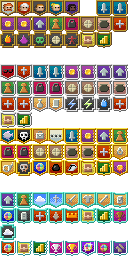
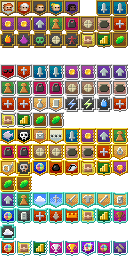
idea by The healing plant: badges themed after planting and activating plants

Changed region(s): [[0.25, 0.4375, 0.5, 0.5], [0.0, 0.6875, 0.25, 0.75], [0.875, 0.125, 1.0, 0.1875]]

diff --git a/core/src/main/java/com/shatteredpixel/shatteredpixeldungeon/Badges.java b/core/src/main/java/com/shatteredpixel/shatteredpixeldungeon/Badges.java
@@ -84,6 +84,7 @@ public class Badges {
 		DEATH_FROM_FALLING          ( 20 ),
 		GAMES_PLAYED_1              ( 21, true ),
 		HIGH_SCORE_1                ( 22 ),
+		PLANTS_ACTIVATED_1          ( 23 ),
 
 		//silver
 		NO_MONSTERS_SLAIN           ( 32 ),
@@ -117,6 +118,8 @@ public class Badges {
 		BOSS_SLAIN_1_ALL_CLASSES    ( 55, true ),
 		GAMES_PLAYED_2              ( 56, true ),
 		HIGH_SCORE_2                ( 57 ),
+		PLANTS_ACTIVATED_2          ( 58 ),
+		PLANTS_ACTIVATED_3          ( 59 ),
 
 		//gold
 		PIRANHAS                    ( 64 ),
@@ -147,6 +150,8 @@ public class Badges {
 		GAMES_PLAYED_3              ( 85, true ),
 		HIGH_SCORE_3                ( 86 ),
 		THREE_SHOPKEEPERS_FLEE      ( 87 ),
+		PLANTS_ACTIVATED_4          ( 88 ),
+		PLANTS_ACTIVATED_5          ( 89 ),
 
 		//platinum
 		ITEM_LEVEL_5                ( 96 ),
@@ -515,6 +520,37 @@ public class Badges {
 			local.add( badge );
 		}
 		
+		displayBadge( badge );
+	}
+
+	public static void validatePlantsActivated() {
+		Badge badge = null;
+
+		if (!local.contains( Badge.PLANTS_ACTIVATED_1 ) && Statistics.plantsActivated >= 10) {
+			badge = Badge.PLANTS_ACTIVATED_1;
+			local.add( badge );
+		}
+		if (!local.contains( Badge.PLANTS_ACTIVATED_2 ) && Statistics.plantsActivated >= 20) {
+			if (badge != null) unlock(badge);
+			badge = Badge.PLANTS_ACTIVATED_2;
+			local.add( badge );
+		}
+		if (!local.contains( Badge.PLANTS_ACTIVATED_3 ) && Statistics.plantsActivated >= 30) {
+			if (badge != null) unlock(badge);
+			badge = Badge.PLANTS_ACTIVATED_3;
+			local.add( badge );
+		}
+		if (!local.contains( Badge.PLANTS_ACTIVATED_4 ) && Statistics.plantsActivated >= 40) {
+			if (badge != null) unlock(badge);
+			badge = Badge.PLANTS_ACTIVATED_4;
+			local.add( badge );
+		}
+		if (!local.contains( Badge.PLANTS_ACTIVATED_5 ) && Statistics.plantsActivated >= 50) {
+			if (badge != null) unlock(badge);
+			badge = Badge.PLANTS_ACTIVATED_5;
+			local.add( badge );
+		}
+
 		displayBadge( badge );
 	}
 	

diff --git a/core/src/main/java/com/shatteredpixel/shatteredpixeldungeon/Statistics.java b/core/src/main/java/com/shatteredpixel/shatteredpixeldungeon/Statistics.java
@@ -37,6 +37,7 @@ public class Statistics {
 	public static int itemsCrafted;
 	public static int piranhasKilled;
 	public static int ankhsUsed;
+	public static int plantsActivated;
 
 	//These are used for score calculation
 	// some are built incrementally, most are assigned when full score is calculated
@@ -81,6 +82,7 @@ public class Statistics {
 		itemsCrafted    = 0;
 		piranhasKilled	= 0;
 		ankhsUsed		= 0;
+		plantsActivated = 0;
 
 		progressScore   = 0;
 		heldItemValue   = 0;
@@ -121,6 +123,7 @@ public class Statistics {
 	private static final String ALCHEMY		= "potionsCooked";
 	private static final String PIRANHAS	= "priranhas";
 	private static final String ANKHS		= "ankhsUsed";
+	private static final String PLANTS		= "plantsActivated";
 
 	private static final String PROG_SCORE	    = "prog_score";
 	private static final String ITEM_VAL	    = "item_val";
@@ -160,6 +163,7 @@ public class Statistics {
 		bundle.put( ALCHEMY,    itemsCrafted );
 		bundle.put( PIRANHAS,	piranhasKilled );
 		bundle.put( ANKHS,		ankhsUsed );
+		bundle.put( PLANTS,		plantsActivated );
 
 		bundle.put( PROG_SCORE,  progressScore );
 		bundle.put( ITEM_VAL,    heldItemValue );
@@ -204,6 +208,7 @@ public class Statistics {
 		itemsCrafted    = bundle.getInt( ALCHEMY );
 		piranhasKilled	= bundle.getInt( PIRANHAS );
 		ankhsUsed		= bundle.getInt( ANKHS );
+		if (bundle.contains(PLANTS)) plantsActivated = bundle.getInt(PLANTS);
 
 		progressScore   = bundle.getInt( PROG_SCORE );
 		heldItemValue   = bundle.getInt( ITEM_VAL );

diff --git a/core/src/main/java/com/shatteredpixel/shatteredpixeldungeon/plants/Plant.java b/core/src/main/java/com/shatteredpixel/shatteredpixeldungeon/plants/Plant.java
@@ -24,9 +24,7 @@
 
 package com.shatteredpixel.shatteredpixeldungeon.plants;
 
-import com.shatteredpixel.shatteredpixeldungeon.Assets;
-import com.shatteredpixel.shatteredpixeldungeon.Challenges;
-import com.shatteredpixel.shatteredpixeldungeon.Dungeon;
+import com.shatteredpixel.shatteredpixeldungeon.*;
 import com.shatteredpixel.shatteredpixeldungeon.actors.Actor;
 import com.shatteredpixel.shatteredpixeldungeon.actors.Char;
 import com.shatteredpixel.shatteredpixeldungeon.actors.buffs.Barkskin;
@@ -83,6 +81,9 @@ public abstract class Plant implements Bundlable {
 		if (Dungeon.level.heroFOV[pos]) {
 			CellEmitter.get( pos ).burst( LeafParticle.GENERAL, 6 );
 		}
+
+		Statistics.plantsActivated++;
+		Badges.validatePlantsActivated();
 
 		float seedChance = 0f;
 		for (Char c : Actor.chars()){
